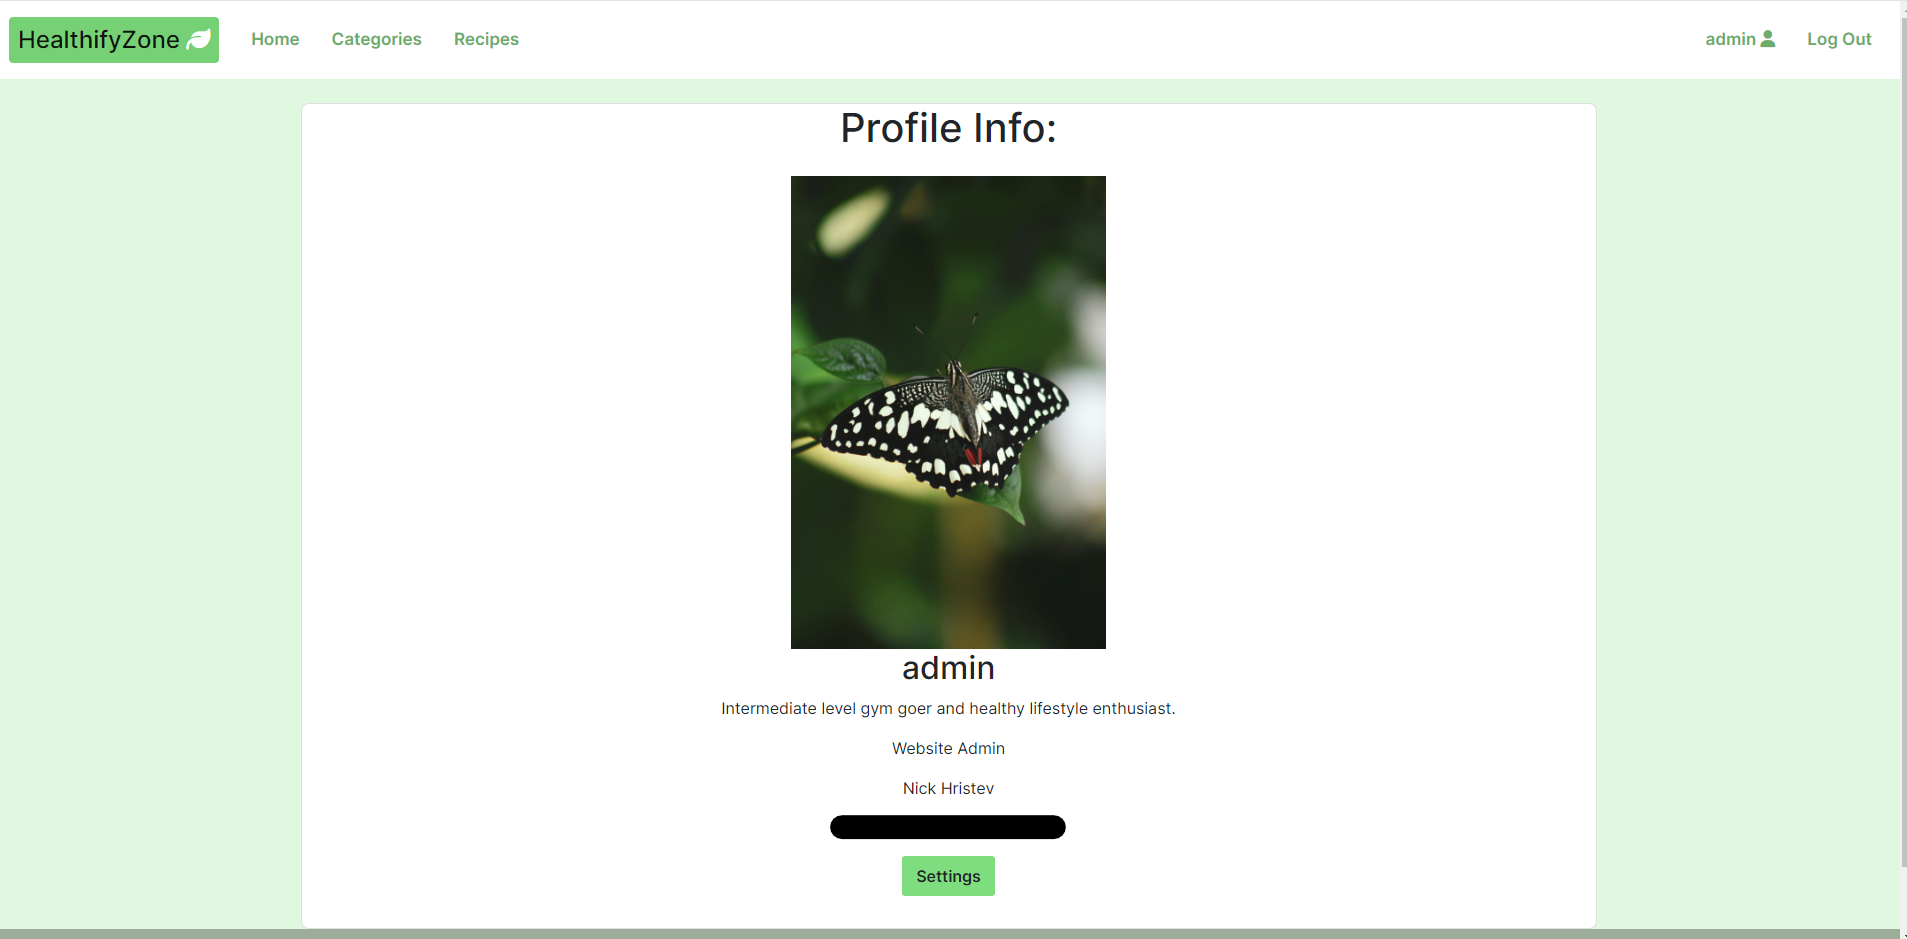
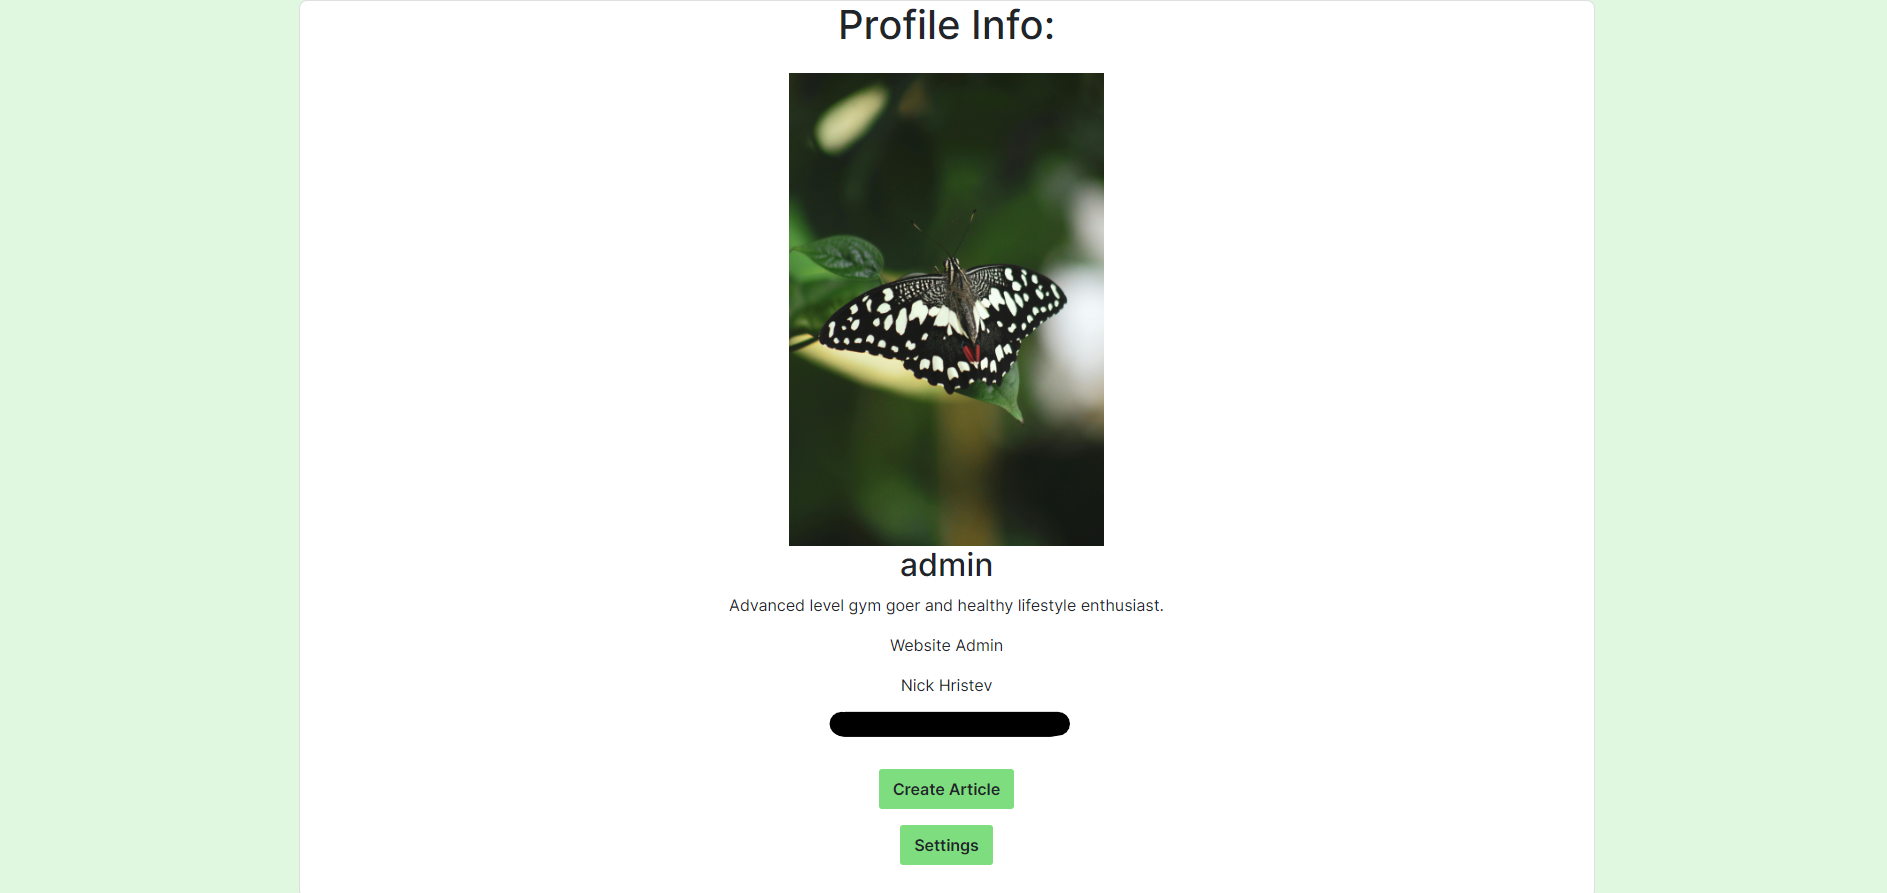
add profile features to README

Changed region(s): [[0.0, 0.0, 1.0, 1.0]]

diff --git a/README.md b/README.md
@@ -324,3 +324,31 @@ The wireframes were created with [Balsamiq's Website](https://balsamiq.com/).
     - Finally the user will see a dropdown "View Instructions" button that when clicked they will be provided with the instructions and steps for the preparation of the recipe.
 
 ![Recipe Instructions](https://github.com/devnickocodes/healthifyzone/blob/main/documentation/recipe_instructions.png)
+
+- **Profile Page (own profile page)**
+
+    - When the user navigates to their own profile page, they will see their profile picture (it will be a placeholder image if they haven't changed it), username, status, bio, first and last names if they have provided these details upon signing up, their email as well as a "Create Article" and "Settings" buttons.
+
+![Profile Page (own profile page)](https://github.com/devnickocodes/healthifyzone/blob/main/documentation/logged_in_user_own_profile_page.png)
+
+- **Create Article Button**
+
+    - When the user clicks the "Create Article" button they will be taken to a page where they can create an article so it is sent for approval.
+
+![Create Article Button](https://github.com/devnickocodes/healthifyzone/blob/main/documentation/create_article_button.png)
+
+- **Settings Button**
+
+    - When the user clicks the "Settings" dropdown button a profile update form will be shown so they can edit their profile information.
+
+![Settings Button](https://github.com/devnickocodes/healthifyzone/blob/main/documentation/profile_settings_button.png)
+
+- **Profile Update Form**
+
+![Profile Update Form](https://github.com/devnickocodes/healthifyzone/blob/main/documentation/profile_update_form.png)
+
+- **Profile Page (another user's profile page)**
+
+    - This is the page where the user will be taken if they have clicked on the author's profile link from the article, categories or the comments. The page displays the other user's profile picture, username, status, first and last name if it was provided upond signing up.
+
+![Profile Page (another user's profile page)](https://github.com/devnickocodes/healthifyzone/blob/main/documentation/logged_in_user_not_own_profile_page.png)
